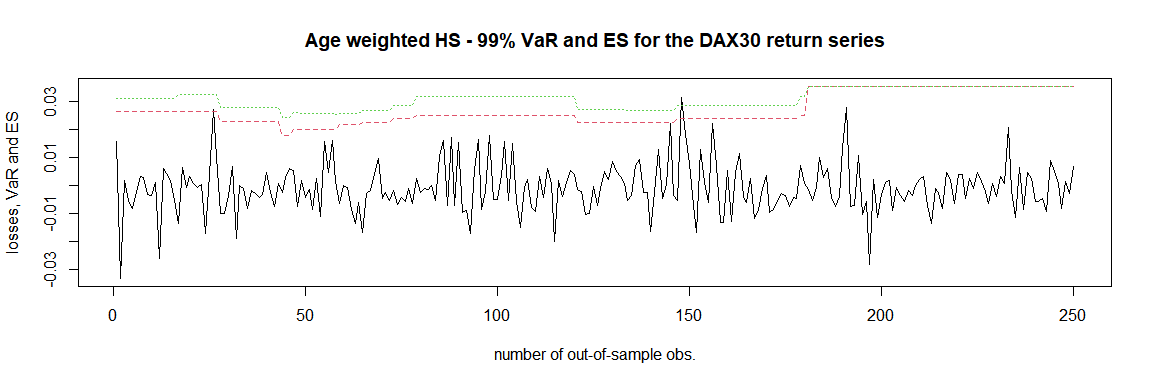
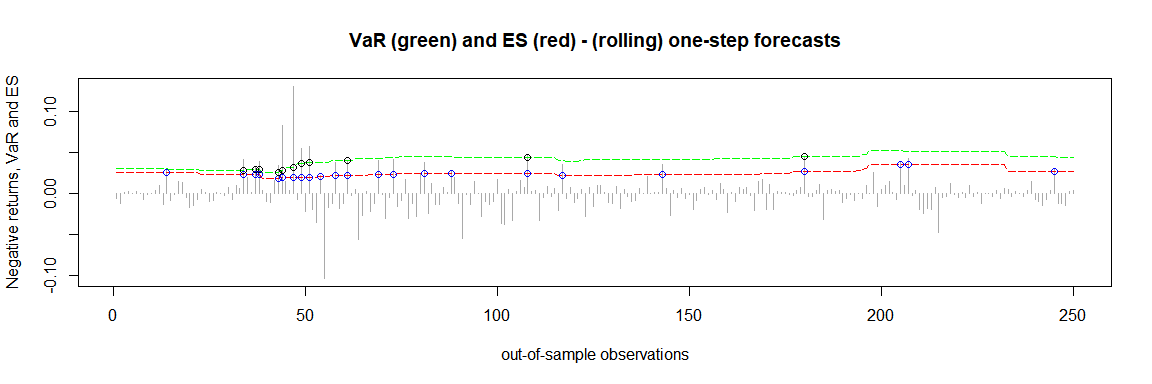
updating README

diff --git a/README.md b/README.md
@@ -40,41 +40,28 @@ library(quarks)         # Call the package
 prices <- DAX30$price.close
 returns <- diff(log(prices))
 
-n <- length(returns)
-nout <- 250 # number of obs. for out-of-sample forecasting
-retout <- returns[(n - nout + 1):n] # out-of-sample returns
-
 ### Example 1 - plain historical simulation 
-results1 <- rollcast(x = returns, p = 0.99, method = 'plain')
-matplot(1:nout, cbind(-retout, results1$VaR, results1$ES),
-  type = 'lll',
-  xlab = 'number of out-of-sample obs.', ylab = 'losses, VaR and ES',
-  main = 'Plain HS - 99% VaR and ES for the DAX30 return series'
-)
+results1 <- rollcast(x = returns, p = 0.99, method = 'plain', nout = 250,
+                     nwin = 500)
+plot(results1)
 ```
 
 <img src="man/figures/README-unnamed-chunk-2-1.png" width="100%" />
 
 ``` r
 ### Example 2 - age weighted historical simulation 
-results2 <- rollcast(x = returns, p = 0.99, method = 'age')
-matplot(1:nout, cbind(-retout, results2$VaR, results2$ES),
-  type = 'lll',
-  xlab = 'number of out-of-sample obs.', ylab = 'losses, VaR and ES',
-  main = 'Age weighted HS - 99% VaR and ES for the DAX30 return series'
-)
+results2 <- rollcast(x = returns, p = 0.99, method = 'age', nout = 250,
+                     nwin = 500)
+plot(results2)
 ```
 
 <img src="man/figures/README-unnamed-chunk-3-1.png" width="100%" />
 
 ``` r
 ### Example 3 - volatility weighted historical simulation 
-results3 <- rollcast(x = returns, p = 0.99, method = 'vwhs')
-matplot(1:nout, cbind(-retout, results3$VaR, results3$ES),
-  type = 'lll',
-  xlab = 'number of out-of-sample obs.', ylab = 'losses, VaR and ES',
-  main = 'Vol. weighted HS - 99% VaR and ES for the DAX30 return series'
-)
+results3 <- rollcast(x = returns, p = 0.99, method = 'vwhs', nout = 250,
+                     nwin = 500)
+plot(results3)
 ```
 
 <img src="man/figures/README-unnamed-chunk-4-1.png" width="100%" />
